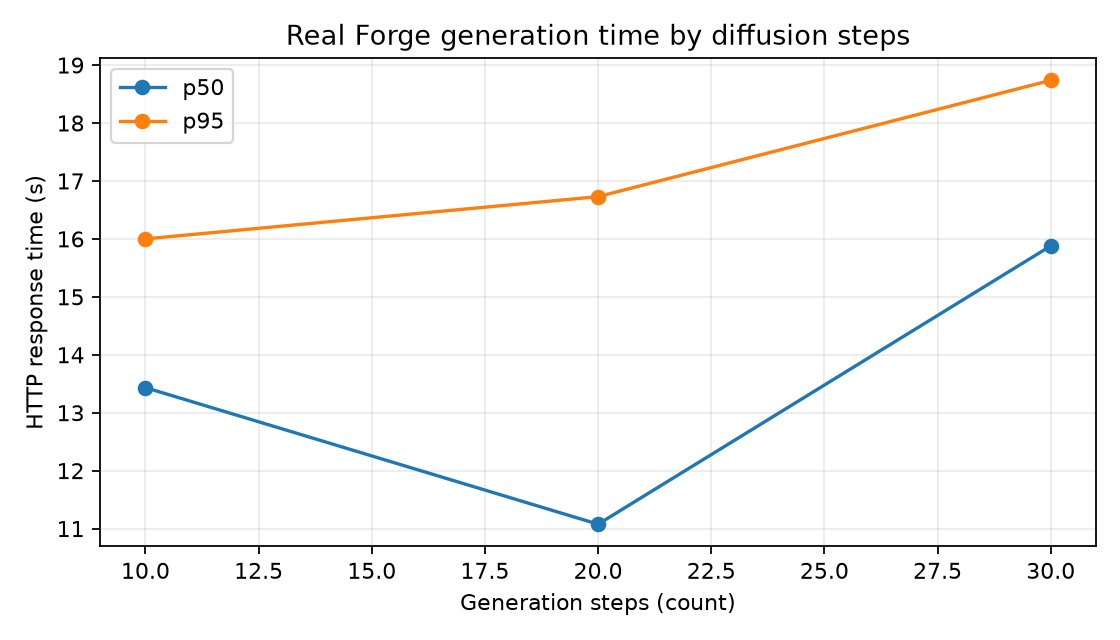
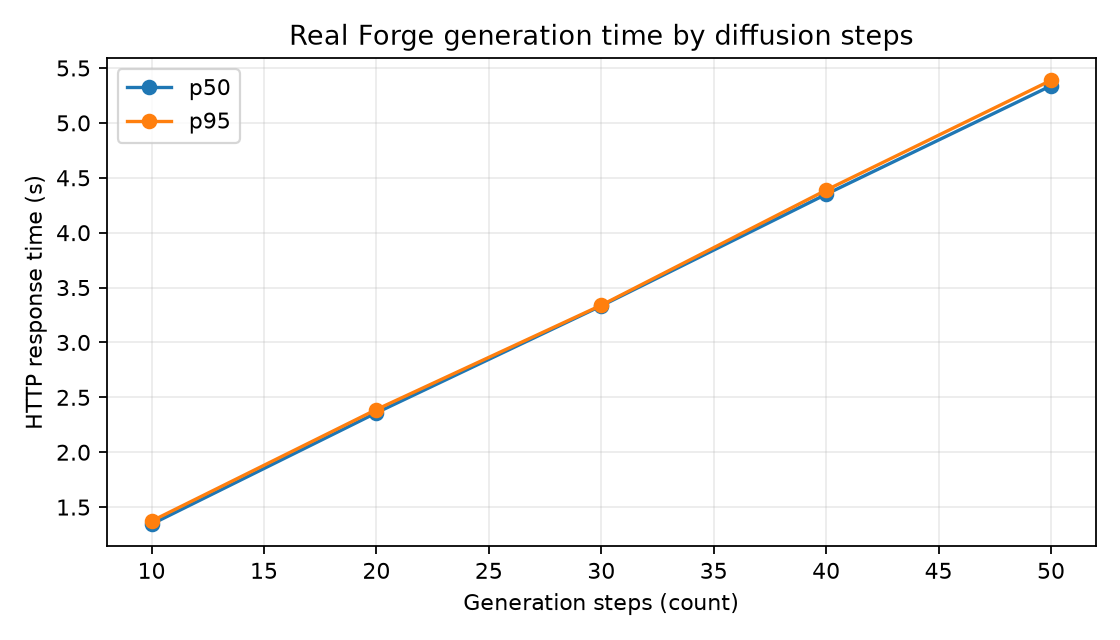
perf(pipeline): use local Forge timing evidence (#68)

diff --git a/services/ai-engine/samples/benchmark/QUEUE_REPORT.md b/services/ai-engine/samples/benchmark/QUEUE_REPORT.md
@@ -39,25 +39,31 @@ equivalence within floating-point precision.
 
 ## Real Forge generation time by steps
 
-The real-GPU run used the `cetusMix Whalefall2 [876b4c7ba5]` checkpoint,
-`DPM++ 2M` sampler, Karras scheduler, fixed seed `12345`, and 512×512 output.
-One warm-up generation was excluded. The nine recorded requests used a balanced
-order so 10, 20, and 30 steps each appeared once in the early, middle, and late
-position of a trial. A two-second cooldown between requests was not included in
-the measured latency.
+The real-GPU run used the `counterfeitV30_v30` checkpoint, `DPM++ 2M` sampler,
+Karras scheduler, fixed seed `12345`, and 512×512 output. The AI engine and Forge
+ran on the same Windows 11 machine through localhost, avoiding network-tunnel
+latency. One warm-up generation was excluded. The 25 recorded requests used a
+balanced order across five repeats and step counts from 10 to 50. A two-second
+cooldown between requests was not included in the measured latency.
 
 | Steps | Samples | p50 | p95 | Observed range |
 |---:|---:|---:|---:|---:|
-| 10 | 3 | 13.433 s | 16.001 s | 6.424–16.286 s |
-| 20 | 3 | 11.076 s | 16.730 s | 7.178–17.358 s |
-| 30 | 3 | 15.880 s | 18.737 s | 10.757–19.055 s |
+| 10 | 5 | 1.344 s | 1.373 s | 1.329–1.376 s |
+| 20 | 5 | 2.359 s | 2.389 s | 2.348–2.395 s |
+| 30 | 5 | 3.333 s | 3.339 s | 3.319–3.340 s |
+| 40 | 5 | 4.350 s | 4.388 s | 4.327–4.395 s |
+| 50 | 5 | 5.338 s | 5.388 s | 5.322–5.390 s |
 
 ![Real Forge generation time by diffusion steps](generation_by_steps.png)
 
-The 30-step setting was slowest overall and p95 increased with the step count.
-The 10-step and 20-step distributions overlap, and their p50 values are not
-monotonic. These requests crossed a public Gradio tunnel to a remote GPU,
-so network and GPU load are material sources of variation; the result should not
-be presented as a precise linear scaling law. The final recorded trials required
-no retries. Raw values, summary values, and run settings are stored beside this
+Generation time increased by about **0.100 seconds per step** on this GPU. A
+linear fit over all 25 requests gives `time = 0.100 × steps + 0.351 seconds`, with
+R² = **0.9997**. Every repeat remained within 0.07 seconds of the others, and the
+recorded trials required no retries. These timings describe this particular
+model, machine, and image size; they are evidence of the relationship between
+steps and processing time rather than a universal speed claim.
+
+An earlier run through a public Gradio tunnel was rejected because request order
+explained the latency better than step count. This local measurement replaces
+that data. Raw values, summary values, and run settings are stored beside this
 report in the corresponding `generation_by_steps_*` files.
